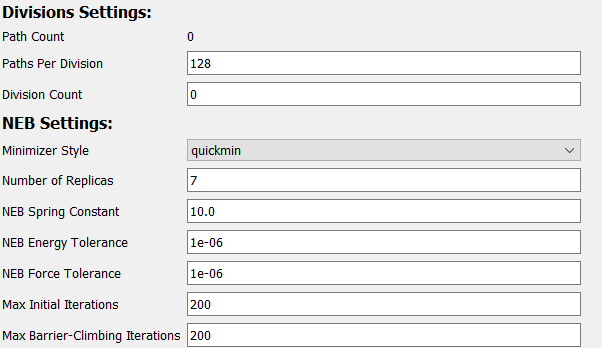
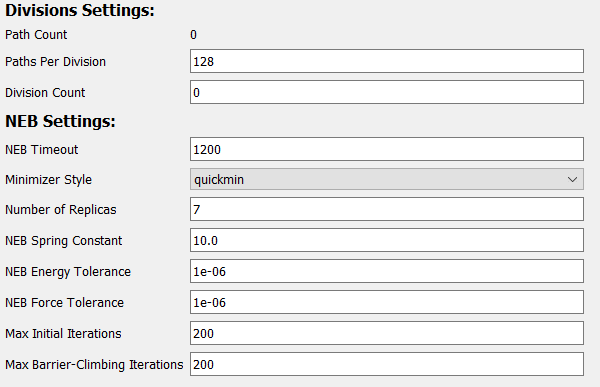
-Added documentation for timeout field in NEB and site minimizer simulation builders -Minor edits to documentation

diff --git a/crystal-viewer/docs/Simulations/Site Minimizer/index.md b/crystal-viewer/docs/Simulations/Site Minimizer/index.md
@@ -117,10 +117,11 @@ job using slurm.
 The remaining options configure the minimizer. These are identical 
 to the settings used in the regular [minimizer](../Minimizing/):
 
-| Field            | Description |
-| ---------------- | ----------- |
-| Minimizer Style  | Method to use for minimizing. More information on minimizer styles can be found [here](https://docs.lammps.org/min_style.html) |
-| Energy Tolerance | Minimizer terminates when the ratio between the energy change and energy magnitude is less than this value. Set to 0.0 to disable |
-| Force Tolerance  | Stopping tolerance for length of global force vector. Set to 0.0 to disable |
-| Max. Steps       | Maximum number of steps to run the minimizer |
-| Max. Force Calls | Maximum number of force evaluations before terminating the minimizer |
+| Field             | Description |
+| ----------------- | ----------- |
+| Minimizer Style   | Method to use for minimizing. More information on minimizer styles can be found [here](https://docs.lammps.org/min_style.html) |
+| Energy Tolerance  | Minimizer terminates when the ratio between the energy change and energy magnitude is less than this value. Set to 0.0 to disable |
+| Force Tolerance   | Stopping tolerance for length of global force vector. Set to 0.0 to disable |
+| Max. Steps        | Maximum number of steps to run the minimizer |
+| Max. Force Calls  | Maximum number of force evaluations before terminating the minimizer |
+| Minimizer Timeout | Maximum time, in seconds, to run an individual NEB before terminating.  Useful for preventing non-converging simulations from hogging compute time |

diff --git a/crystal-viewer/docs/Simulations/NEB/index.md b/crystal-viewer/docs/Simulations/NEB/index.md
@@ -105,6 +105,7 @@ The remaining options directly configure the NEB process:
 
 | Field                            | Description                               |
 | -------------------------------- | ----------------------------------------- |
+| NEB Timeout                      | Maximum time, in seconds, to run an individual NEB before terminating.  Useful for preventing non-converging simulations from hogging compute time |
 | Minimizer Style                  | Minimizer style to use in the NEB's minimization process |
 | Number of Replicas               | Number of intermediate configurations (including the start and end). Note: increasing this will drastically increase the memory requirements |
 | NEB Spring Constant              | Spring constant used in the "elastic band" |

diff --git a/crystal-viewer/docs/Advanced Use/Adding Potentials/index.md b/crystal-viewer/docs/Advanced Use/Adding Potentials/index.md
@@ -53,7 +53,7 @@ potential style. In order for this new style to be automatically
 recognized by the program, it <span style="color: red;">must</span> 
 be saved to `/assets/simulation-builders/potential-defs/`.
 
-<table width=75% align=center class="info" style="border: 2px solid #5757E0; background-color: #E0E0FF;">
+<table id="registered-list-info" width=75% align=center class="info" style="border: 2px solid #5757E0; background-color: #E0E0FF;">
 	<tr><td>
 		<span style="font-weight: bold;">Note:</span> once a style is successfully created, it will automatically be added to
 		the internal registered list.  However, you may need to close and reopen the 

diff --git a/crystal-viewer/docs/Advanced Use/Saving Potential Coefficients/index.md b/crystal-viewer/docs/Advanced Use/Saving Potential Coefficients/index.md
@@ -52,11 +52,11 @@ In this case:
 	<tr>
 		<td>
 			<span style="font-weight: bold;">Note:</span> If a potential coefficient file references a potential style that
-			does not exist among the <a href="../Adding Potentials/#style-builder">registered list</a>, it will be assumed to follow 
+			does not exist among the <a href="../Adding Potentials/#registered-list-info">registered list</a>, it will be assumed to follow 
 			the currently active style.  This assumption will not always work, and 
 			you will be sad.
 		</td>
 	</tr>
 </table>
-
+</div>
 
